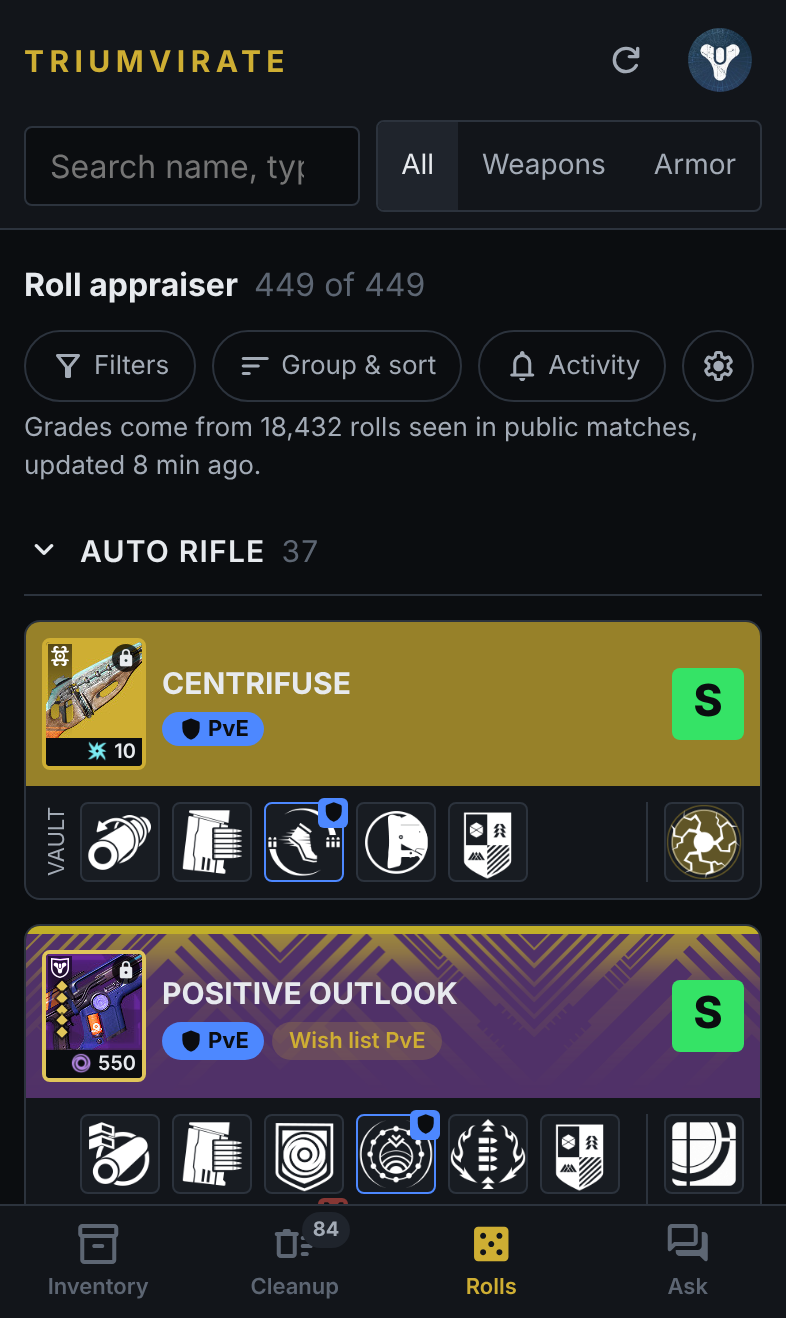
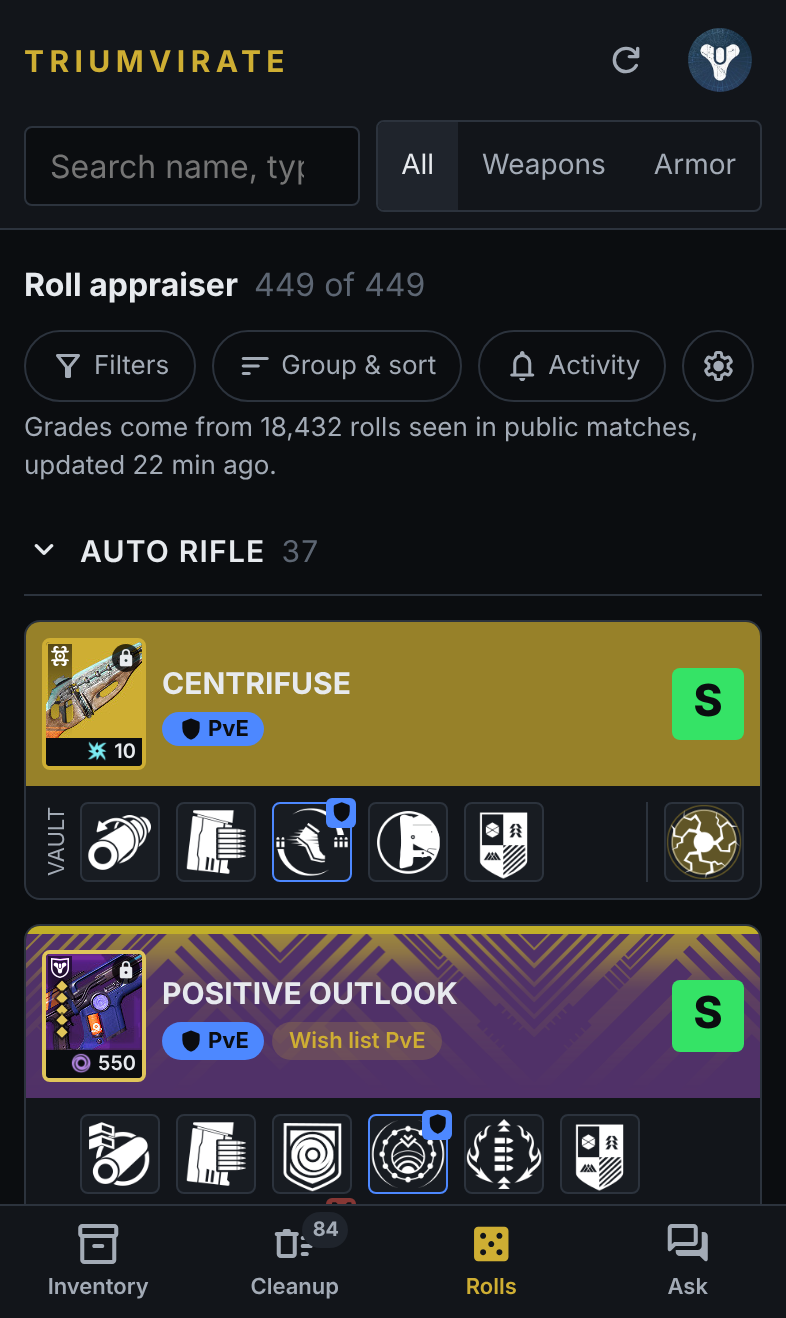
Phone layout: apply the design-system doctrine
- Token tiers: every new semantic and component token aliases a global (new size, font-size,
  shadow, and safe-area primitives). token-audit errors stay at main's 34; tier-3 share 43% -> 38%.
- Elevation by lightness: bottom sheets sit on the raised surface with a shadow token.
- Tap targets keep an 8px gap (--target-gap): store switcher, roll perks, sheet tabs.
- Contrast: tab bar labels use secondary text (7.9:1, was 3.2:1); unread badge uses
  --on-danger (5.3:1, was 3.1:1).
- One count-badge component replaces two copies; the tile gap is back to the shared 6px.

Claude-Session: https://claude.ai/code/session_01LyeGNj2AZdNCDCo89eXnSF

diff --git a/apps/web/src/app.css b/apps/web/src/app.css
@@ -1165,19 +1165,14 @@ button, a, label, summary, select, [role='button'] { touch-action: manipulation;
     display: grid; justify-items: center; align-content: center; gap: 2px;
     height: var(--tabbar-height);
     padding: 0; border: 0; background: none;
-    color: var(--text-muted); font: inherit; font-size: 11px; font-weight: 600;
+    /* Secondary, not muted: 11px labels need full text contrast (muted measures about 3:1 here). */
+    color: var(--text-secondary); font: inherit; font-size: 11px; font-weight: 600;
     cursor: pointer;
   }
   .tabbar__tab.is-selected { color: var(--accent); }
   .tabbar__icon { position: relative; display: grid; place-items: center; }
   .tabbar__icon .icon { font-size: var(--tabbar-icon-size); }
-  .tabbar__count {
-    position: absolute; top: -4px; left: calc(100% - 8px);
-    min-width: 18px; height: 18px; padding: 0 5px; border-radius: 9px;
-    background: var(--surface-hover); color: var(--text-secondary);
-    font-size: 10px; font-weight: 700; line-height: 18px; text-align: center;
-  }
-  .tabbar__count--alert { background: var(--danger); color: var(--text-primary); }
+  .tabbar__count { position: absolute; top: -4px; left: calc(100% - 8px); }
   .tabbar__dot { position: absolute; top: -1px; right: -3px; width: 9px; height: 9px; border-radius: 50%; background: var(--text-primary); box-shadow: 0 0 0 2px var(--surface-panel); }
   /* While an answer is being written, the chat tab's icon pulses, like the button's ring on desktop. */
   .tabbar__tab--chat.is-busy .tabbar__icon .icon { color: var(--accent); animation: tab-pulse 1.2s ease-in-out infinite; }
@@ -1186,7 +1181,7 @@ button, a, label, summary, select, [role='button'] { touch-action: manipulation;
   /* Store switcher: sticks under the top bar as the store scrolls. */
   .store-switcher {
     position: sticky; top: 0; z-index: 3;
-    display: grid; grid-auto-flow: column; grid-auto-columns: minmax(0, 1fr); gap: var(--space-1);
+    display: grid; grid-auto-flow: column; grid-auto-columns: minmax(0, 1fr); gap: var(--target-gap);
     padding: var(--space-2) var(--page-gutter);
     background: color-mix(in srgb, var(--surface-page) 92%, transparent);
     backdrop-filter: blur(8px);
@@ -1211,14 +1206,14 @@ button, a, label, summary, select, [role='button'] { touch-action: manipulation;
   /* A scrim under the text, light enough that the emblem still reads. */
   .store-switcher__emblem::after { content: ''; position: absolute; inset: 0; background: linear-gradient(90deg, rgb(0 0 0 / 0.55), rgb(0 0 0 / 0.1)); }
   .store-switcher__tab.is-selected .store-switcher__emblem { opacity: 1; }
-  .store-switcher__emblem--vault { left: auto; width: 40px; display: grid; place-items: center; opacity: 0.5; color: var(--text-secondary); background: none; }
+  .store-switcher__emblem--vault { left: auto; width: var(--store-emblem-size); display: grid; place-items: center; opacity: 0.5; color: var(--text-secondary); background: none; }
   .store-switcher__emblem--vault::after { display: none; }
   .store-switcher__emblem--vault .icon { font-size: 28px; }
   .store-switcher__text { display: grid; min-width: 0; line-height: 1.2; }
   .store-switcher__name { font-size: 12px; font-weight: 700; overflow: hidden; text-overflow: ellipsis; white-space: nowrap; }
   .store-switcher__meta { display: flex; align-items: center; gap: 1px; font-size: 12px; color: var(--accent); font-weight: 700; font-variant-numeric: tabular-nums; }
   .store-switcher__meta .icon { font-size: 10px; }
-  .store-switcher__tab:last-child .store-switcher__meta { color: var(--text-muted); font-weight: 600; }
+  .store-switcher__tab:last-child .store-switcher__meta { color: var(--text-secondary); font-weight: 600; }
 
   /* Inventory: the chosen store fills the width. */
   .inventory { grid-template-columns: minmax(0, 1fr); padding-top: var(--space-3); }
@@ -1279,12 +1274,11 @@ button, a, label, summary, select, [role='button'] { touch-action: manipulation;
   .rolls__tool .icon { font-size: 18px; }
   .rolls__tool--icon { padding-inline: var(--space-2); }
   .rolls__tool .rolls__dot { position: static; }
-  .rolls__tool-count { min-width: 18px; height: 18px; padding: 0 5px; border-radius: 9px; background: var(--accent); color: var(--on-accent); font-size: 10px; font-weight: 700; line-height: 18px; text-align: center; }
   .rolls__cards { grid-template-columns: minmax(0, 1fr); }
   /* Group headings stay in view while their cards scroll under them. */
   .rolls__group-head { position: sticky; top: 0; z-index: 1; background: var(--surface-page); min-height: var(--control-size); }
   .roll-card__body { gap: var(--space-2) var(--space-1); }
-  .roll-perks { gap: var(--space-2) 6px; }
+  .roll-perks { gap: var(--target-gap); }
   .roll-card__actions .button { flex: 1; justify-content: center; }
 
   /* Bottom sheet, shared shape: rounded top, a grab handle, and the home indicator's inset. */
@@ -1297,12 +1291,14 @@ button, a, label, summary, select, [role='button'] { touch-action: manipulation;
     border: 0; border-top: 1px solid var(--border-subtle);
     border-radius: var(--sheet-radius) var(--sheet-radius) 0 0;
     background: var(--surface-sheet);
-    box-shadow: 0 -16px 48px rgb(0 0 0 / 0.5);
+    box-shadow: var(--shadow-sheet);
     overflow: hidden;
     animation: sheet-in 200ms cubic-bezier(0.2, 0.8, 0.2, 1);
   }
   .rolls__rail--sheet .rolls__rail-body { overflow-y: auto; overscroll-behavior: contain; padding-bottom: var(--space-4); }
-  .rolls__rail--sheet .rolls__panels { justify-content: flex-start; gap: var(--space-1); }
+  .rolls__rail--sheet .rolls__panels { justify-content: flex-start; gap: var(--target-gap); }
+  /* The sheet is one level up, so its rows and fields step up with it. */
+  .rolls__rail--sheet .activity__row, .rolls__rail--sheet .rolls__select { background: var(--surface-hover); }
   .sheet__handle { justify-self: center; width: 36px; height: 5px; margin: var(--space-1) 0 var(--space-2); border-radius: 3px; background: var(--sheet-handle); }
   .rolls__done { color: var(--accent); font-weight: 600; }
   /* The activity list has the sheet's full width, so its tiles can be full size. */
@@ -1317,3 +1313,14 @@ button, a, label, summary, select, [role='button'] { touch-action: manipulation;
   .rolls__rail--sheet, .sheet-scrim { animation: none; }
   .tabbar__tab--chat.is-busy .tabbar__icon .icon { animation: none; }
 }
+
+/* Count badge: the number on a tab or toolbar button. Neutral for a tally, danger for unread answers. */
+.count-badge {
+  min-width: var(--count-badge-size); height: var(--count-badge-size); padding: 0 5px;
+  border-radius: calc(var(--count-badge-size) / 2);
+  background: var(--accent); color: var(--on-accent);
+  font-size: var(--count-badge-font); font-weight: 700; line-height: var(--count-badge-size); text-align: center;
+  font-variant-numeric: tabular-nums;
+}
+.count-badge--neutral { background: var(--surface-hover); color: var(--text-secondary); }
+.count-badge--alert { background: var(--danger); color: var(--on-danger); }

diff --git a/apps/web/src/tokens.css b/apps/web/src/tokens.css
@@ -42,6 +42,25 @@
   --radius-sm: 4px;
   --radius-md: 8px;
   --radius-lg: 16px;
+  /* Size ramp for controls, targets, and icons (literal: the name is the value). */
+  --size-18: 18px;
+  --size-24: 24px;
+  --size-36: 36px;
+  --size-40: 40px;
+  --size-44: 44px;
+  --size-52: 52px;
+  --size-56: 56px;
+  --size-sheet-max: 82dvh;
+  --font-size-10: 10px;
+  --font-size-14: 14px;
+  --font-size-16: 16px;
+  --shadow-down-lg: 0 8px 24px rgb(0 0 0 / 0.55);
+  --shadow-up-xl: 0 -16px 48px rgb(0 0 0 / 0.55);
+  /* The device's notch and home-indicator insets; 0 unless the page uses viewport-fit=cover. */
+  --env-safe-top: env(safe-area-inset-top, 0px);
+  --env-safe-right: env(safe-area-inset-right, 0px);
+  --env-safe-bottom: env(safe-area-inset-bottom, 0px);
+  --env-safe-left: env(safe-area-inset-left, 0px);
   --font-sans: 'Inter', system-ui, -apple-system, 'Segoe UI', sans-serif;
 
   /* ── Semantic ───────────────────────────────────────── */
@@ -58,6 +77,8 @@
   --on-accent: var(--gray-950);
   --warning: var(--orange-500);
   --danger: #e5534b;
+  /* Text on a danger fill: dark, since light text on this red measures about 3:1. */
+  --on-danger: var(--gray-950);
 
   --tier-exotic: var(--gold-400);
   --tier-legendary: var(--purple-500);
@@ -91,12 +112,19 @@
      --control-size is the smallest tappable control (36px with a mouse, 44px on touch, Apple's minimum).
      --safe-* are the notch and home indicator insets; 0 everywhere except a phone with viewport-fit=cover. */
   --page-gutter: var(--space-6);
-  --control-size: 36px;
-  --safe-top: env(safe-area-inset-top, 0px);
-  --safe-right: env(safe-area-inset-right, 0px);
-  --safe-bottom: env(safe-area-inset-bottom, 0px);
-  --safe-left: env(safe-area-inset-left, 0px);
-  --surface-sheet: var(--surface-panel);
+  --control-size: var(--size-36);
+  --input-font-size: var(--font-size-14);
+  --safe-top: var(--env-safe-top);
+  --safe-right: var(--env-safe-right);
+  --safe-bottom: var(--env-safe-bottom);
+  --safe-left: var(--env-safe-left);
+  /* Elevation. Dark UI: a higher layer is a lighter surface; shadow only separates it from what's under it.
+     Base (page, panels, full-screen sheets) → raised (cards, bottom sheets) → overlay (menus, toasts). */
+  --surface-sheet: var(--surface-raised);
+  --shadow-overlay: var(--shadow-down-lg);
+  --shadow-sheet: var(--shadow-up-xl);
+  /* Space between neighboring tap targets, so an overshoot doesn't hit the next one (8px floor). */
+  --target-gap: var(--space-2);
 
   /* ── Component ──────────────────────────────────────── */
   /* Item size: the user setting writes --tile-scale on :root. Equipped tiles keep their ratio. */
@@ -159,13 +187,16 @@
   --roll-rail-width: 240px;
 
   /* Phone chrome: the bottom tab bar, the store switcher above the inventory, and bottom sheets. */
-  --tabbar-height: 56px;
-  --tabbar-icon-size: 24px;
-  --store-switcher-height: 52px;
+  --tabbar-height: var(--size-56);
+  --tabbar-icon-size: var(--size-24);
+  --store-switcher-height: var(--size-52);
+  --store-emblem-size: var(--size-36);
   --sheet-radius: var(--radius-lg);
-  --sheet-max-height: 82dvh;
-  --sheet-handle: var(--gray-500);
-  --input-font-size: 14px;
+  --sheet-max-height: var(--size-sheet-max);
+  --sheet-handle: var(--text-muted);
+  /* Count badge: one shape for every number on a tab or button (tab bar, rolls toolbar). */
+  --count-badge-size: var(--size-18);
+  --count-badge-font: var(--font-size-10);
 }
 
 /*
@@ -176,17 +207,16 @@
  */
 @media (pointer: coarse) {
   :root {
-    --control-size: 44px;
+    --control-size: var(--size-44);
     /* 16px stops iOS Safari from zooming the page when a text field is focused. */
-    --input-font-size: 16px;
-    --roll-perk-size: 40px;
+    --input-font-size: var(--font-size-16);
+    --roll-perk-size: var(--size-40);
   }
 }
 @media (max-width: 640px) {
   :root {
     --page-gutter: var(--space-3);
     --topbar-height: auto;
-    --tile-gap: 5px;
     --hovercard-width: min(360px, calc(100vw - 2 * var(--space-4)));
   }
 }

diff --git a/apps/web/src/components/TabBar.tsx b/apps/web/src/components/TabBar.tsx
@@ -37,7 +37,7 @@ export function TabBar({ view, onView, cleanupCount, chatOpen, onChat, chatStatu
           >
             <span className="tabbar__icon">
               <Icon name={v.icon} filled={current} />
-              {v.id === 'cleanup' && cleanupCount > 0 && <span className="tabbar__count">{cleanupCount > 99 ? '99+' : cleanupCount}</span>}
+              {v.id === 'cleanup' && cleanupCount > 0 && <span className="tabbar__count count-badge count-badge--neutral">{cleanupCount > 99 ? '99+' : cleanupCount}</span>}
             </span>
             <span className="tabbar__label">{v.label}</span>
           </button>
@@ -51,7 +51,7 @@ export function TabBar({ view, onView, cleanupCount, chatOpen, onChat, chatStatu
       >
         <span className="tabbar__icon">
           <Icon name="chat" filled={chatOpen} />
-          {!chatOpen && chatStatus.unread > 0 && <span className="tabbar__count tabbar__count--alert">{chatStatus.unread}</span>}
+          {!chatOpen && chatStatus.unread > 0 && <span className="tabbar__count count-badge count-badge--alert">{chatStatus.unread}</span>}
           {!chatOpen && chatStatus.unread === 0 && chatStatus.active && <span className="tabbar__dot" />}
         </span>
         <span className="tabbar__label">Ask</span>

diff --git a/apps/web/src/components/RollsView.tsx b/apps/web/src/components/RollsView.tsx
@@ -329,7 +329,7 @@ export function RollsView({ items, syncedAt, activeClass, onSelect, onChanged }:
                   <Icon name={p.icon} />
                   {p.id !== 'settings' && p.label}
                   {p.id === 'filters' && changed && <span className="rolls__dot" aria-label="(on)" />}
-                  {p.id === 'activity' && activityCount > 0 && <span className="rolls__tool-count">{activityCount}</span>}
+                  {p.id === 'activity' && activityCount > 0 && <span className="count-badge">{activityCount}</span>}
                 </button>
               ))}
             </div>
